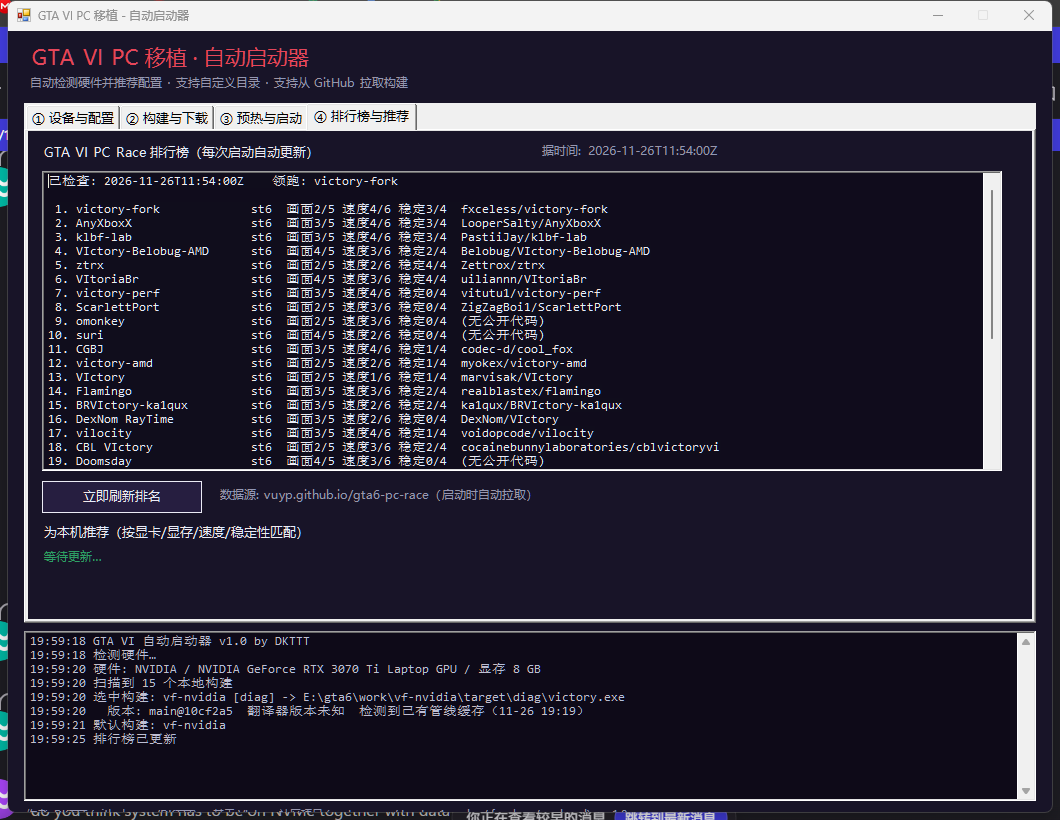
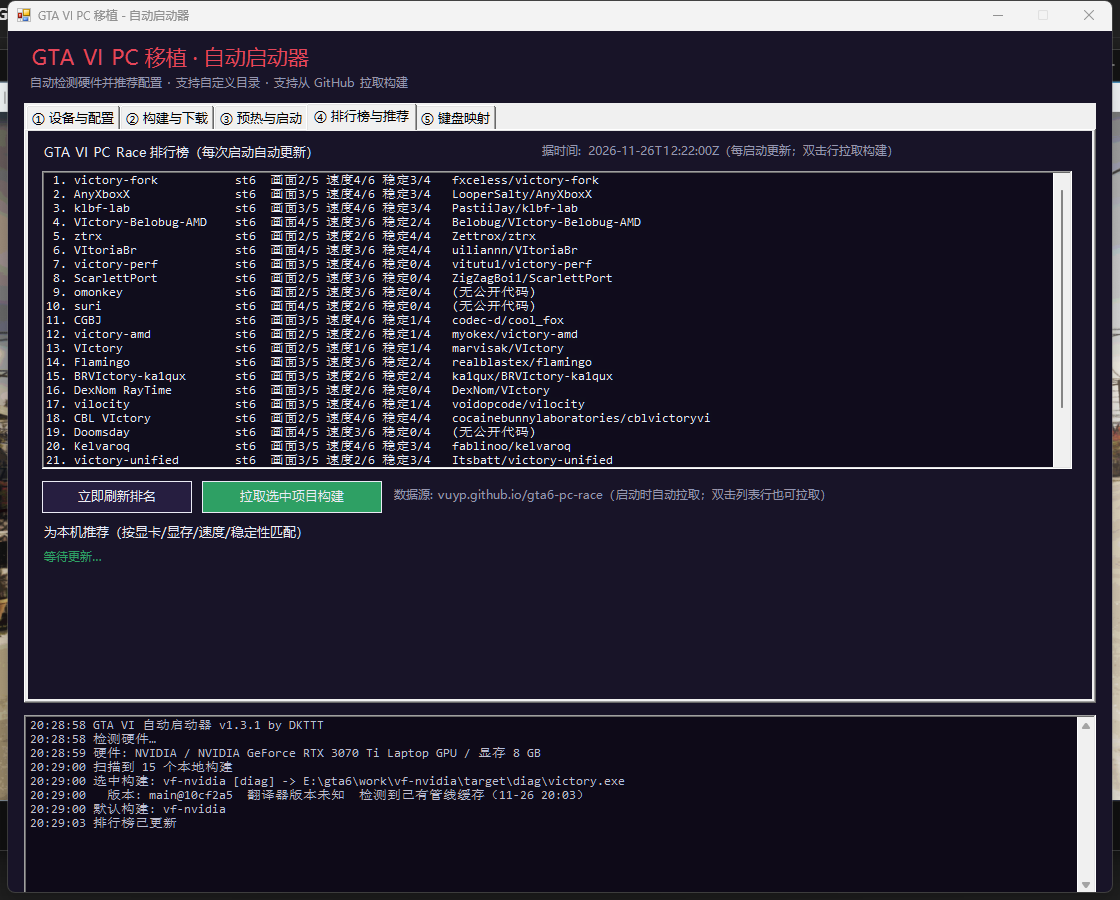
v1.4: layout fix, clickable leaderboard, pull build with hardware compatibility prompt

Changed region(s): [[0.0, 0.0, 1.0, 1.0], [0.7472, 0.9451, 0.9962, 1.0]]

diff --git a/README.md b/README.md
@@ -128,3 +128,12 @@ W = Up
 - **多开检测加强**：以前只检测"有窗口的 victory 进程"，如果另一个实例还在加载（窗口未出现）就拦不住，第二个实例会因缓存/存档文件锁报 `0x80070005（拒绝访问）`。现在检测**任意 victory 进程**，并提示具体 PID。
 - 启动游戏前若检测到残留进程，会弹窗提示先关闭，避免 `0x800005`。
 - 启动前可用任务管理器或命令行 `taskkill /F /IM victory.exe /T` 清理残留。
+
+## v1.4 更新
+
+- **排版修复**：窗口放大到 1120×900，Tab 区域加高，修复底部文字/按钮被裁切、⑤页控件重叠的问题。
+- **排行榜可点击 → 拉取构建**：④ 排行榜列表支持点选（或双击）项目，然后点「拉取选中项目构建」。
+- **不适配提醒**：拉取前检查项目测试硬件与你的配置（厂商/显存）；不匹配时弹窗：
+  `配置可能不适配 … 是=继续，否=取消`。
+- **拉取方式选择**：是=下载源码并编译（自动找默认分支、调 cargo 编译、编译后自动重新扫描构建）；否=只下载源码 ZIP；取消=不拉取。
+- 没有公开仓库的项目（如 CGBJ/ztrx）会提示无法拉取。

diff --git a/使用教程.md b/使用教程.md
@@ -145,3 +145,13 @@ vf-main    [diag]  13.8 MB  11-26 18:37
 4. 点「启动映射」立即生效；或勾选「启动游戏时自动开启映射」，启动游戏自动启用
 5. 游戏里按 `Ctrl+Alt+M` 可以随时开关映射
 6. 「测试按键」按钮 + 下方状态栏可以看最后捕获的键（验证钩子是否正常）
+
+## 第 9 步：从排行榜直接拉取构建
+
+1. 「④ 排行榜与推荐」页，点选（或双击）一个项目
+2. 点「拉取选中项目构建」
+3. 如果项目测试硬件与你的配置不符（例如只在 AMD/大显存卡上测过），会弹窗提示
+   `配置可能不适配 …`：**是 = 继续，否 = 取消**
+4. 选择拉取方式：**是 = 下载源码并编译**（自动检测默认分支、调用 cargo、编译完自动刷新构建列表）；
+   **否 = 只下载源码 ZIP**；**取消 = 不拉取**
+5. 下载/编译完成后回「② 构建与下载」选择新构建，再去「③」预热
